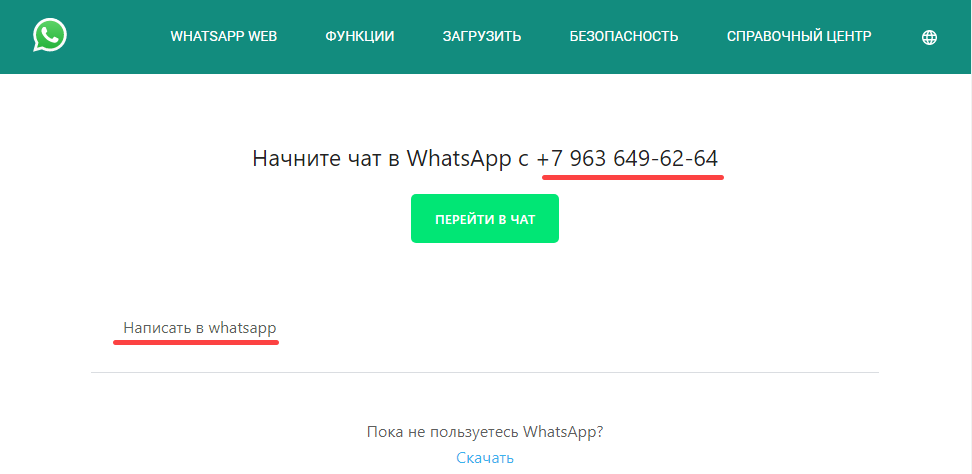
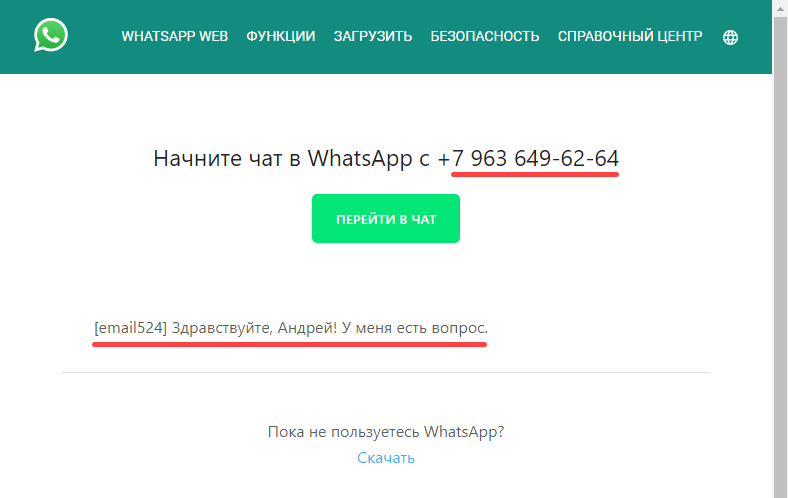
whatsapp кнопка на сайт

diff --git a/src/user-guides/messenger/setup-whatsapp.md b/src/user-guides/messenger/setup-whatsapp.md
@@ -4,7 +4,8 @@ order: -1
 icon: paper-airplane
 ---
 
-Для создания ссылки в письмах и на сайте, а также кнопки, по которым клиенты смогут перейти в чат в whatsapp с вашим корпоративным номером: <br>
+## Ссылки типа "написать в whatsapp" .
+Для создания ссылкок в письмах и на сайте, по которым клиенты смогут перейти в чат в whatsapp с вашим корпоративным номером: <br>
 1. Перейдите в **Звонки и сообщения** -> **Конструктор ссылок**.
 
 <img class="miko-shadow play-on-hover"  
@@ -13,7 +14,7 @@ icon: paper-airplane
 /> 
 
 2. В поле **Номер телефона** введите ваш корпоративный номер, который вы использовали для <a href='/get-started/whatsapp#подключение-whatsapp' target="_blank">интеграции.</a>
-3. В поле **Текст сообщения** введите текст приглашения, который будет на странице, которую клиент откроет по ссылке.
+3. В поле **Текст сообщения** введите текст приглашения, который будет на странице, открытую клиентом по ссылке.
 
 <img class="miko-shadow"  
     src="/assets/whatsapp/konstr_ssil_0.png"
@@ -27,7 +28,7 @@ icon: paper-airplane
     alt="МИКО: ссылка для whatsapp"
 /> 
 
-При ее нажатии клиентом откроется страница с установленными вами текстом приветствия, и номером.
+5. При ее нажатии клиентом откроется страница с установленными вами текстом приветствия, и номером.
 
 <img class="miko-shadow img-zoomable"  
     src="/assets/whatsapp/konstr_ssil_2.png"
@@ -36,8 +37,9 @@ icon: paper-airplane
     alt="МИКО: страница написать в whatsapp"
 /> 
 
-## Создание кнопки на сайт.
-1. 
+## Создание кнопки на сайт
+1. Заполните в конструкторе ссылок текст приветствия, подходящий для письма по кнопке с сайта.
+
 <img class="miko-shadow"  
     src="/assets/whatsapp/wp_konstr_0.png"
     alt="МИКО: создание кнопки для whatsapp"
@@ -47,22 +49,24 @@ icon: paper-airplane
 3. Откройте файл **index.html** и вставьте первую часть кода в конце блока **head**.
 
 <img class="miko-shadow play-on-hover"  
-    src="/assets/whatsapp/wp_konstr_knop_0.gif"
+    src="/assets/whatsapp/wp_konstr_knop.gif"
     alt="МИКО: добавление кода кнопки в html файл"
 /> 
 
-4. Вторую часть кода вставьте в конец блока **body**.
+4. Вторую часть кода вставьте в конец блока **body**. Добавится кнопка внизу страницы, по нажатию которой откроется станица с приглашением написать в whatsapp.
 
 <img class="miko-shadow"  
-    src="/assets/whatsapp/konstr_ssil_kn.png"
+    src="/assets/whatsapp/wp_konstr_knop_0.gif"
     alt="МИКО: кнопка для whatsapp на сайте"
 />
 
-При ее нажатии откроется та же страница, что и по ссылке.
+## Маршрутизация по ключевым словам 
+В конструкторе ссылок в поле **Текст сообщения** можно вставить одно из ключевых слов, по которому будет маршрутизироваться входящее сообщение.
+В приведенных выше примерах ключевые слова в начале приветствия: **email524**, **www**. 
 
-<img class="miko-shadow play-on-hover"  
-    src="/assets/whatsapp/wp_knop.gif"
-    alt="МИКО: смена схемы соединения"
-/> 
+Сами правила маршрутизации устанавливаются в **Звонки и сообщения** -> **Настройки мессенджера** -> **Правила маршрутизации сообщений**.
 
-В конструкторе ссылок в поле **Текст сообщения** можно вставить одно из ключевых слов **www**, по которому будет маршрутизироваться входящее сообщение на установленную нами группу пользователей.
+<img class="miko-shadow"  
+    src="/assets/whatsapp/wp_marshrut_0.gif"
+    alt="МИКО: маршрутизация входящих сообщений"
+/>
